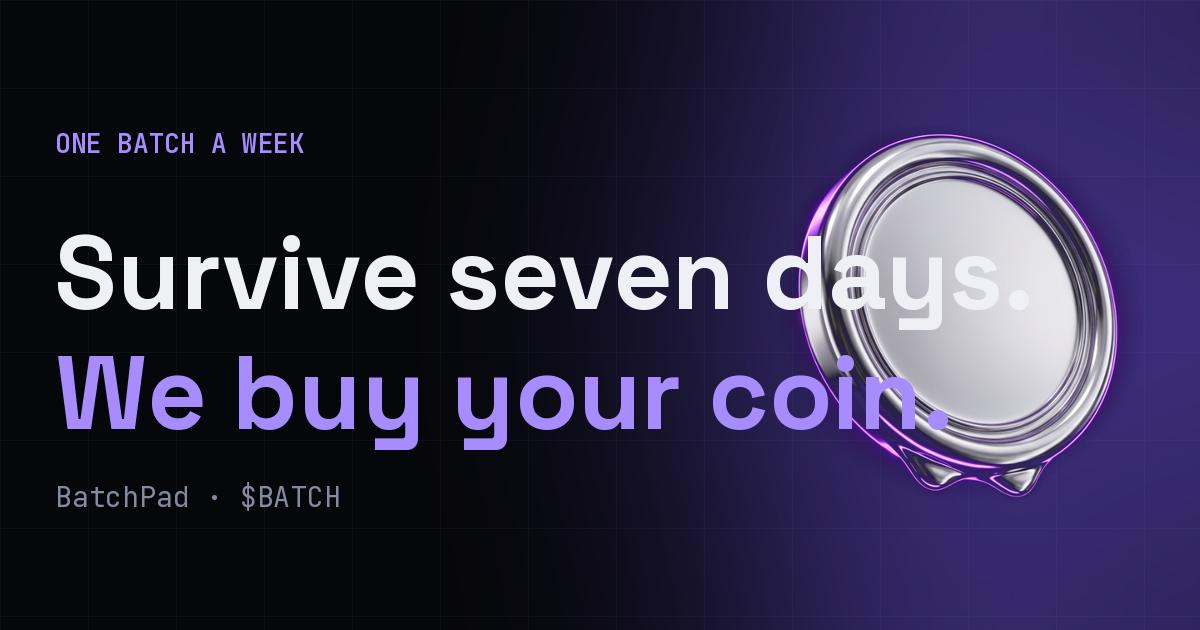
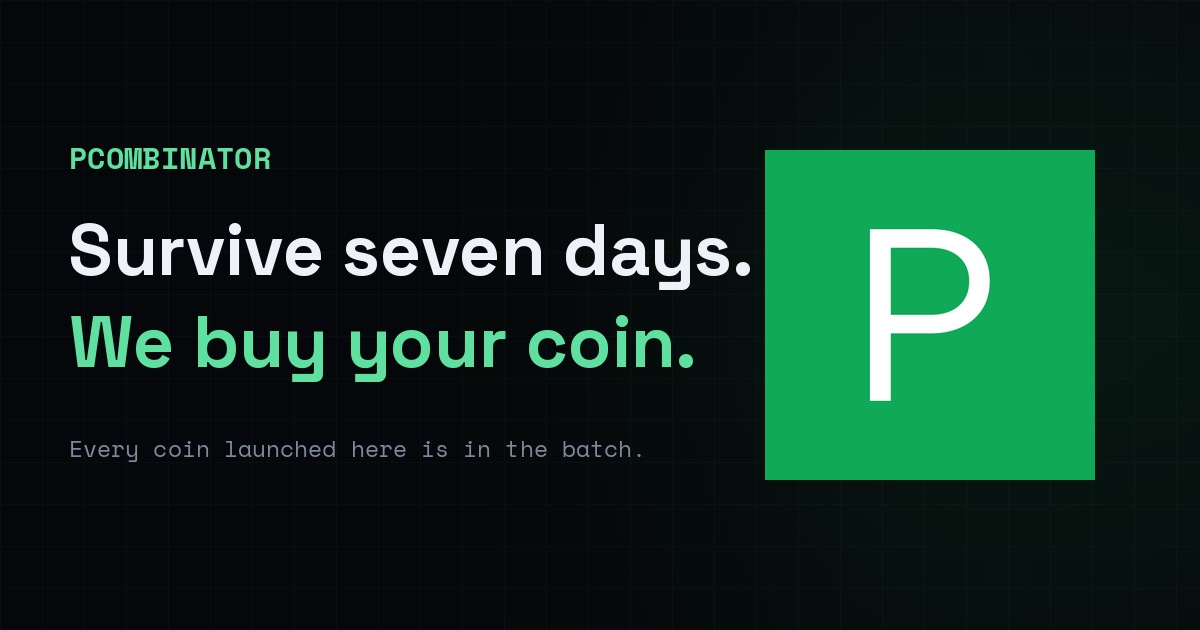
Add files via upload

diff --git a/index.html b/index.html
@@ -3,9 +3,9 @@
 <head>
 <meta charset="utf-8">
 <meta name="viewport" content="width=device-width,initial-scale=1,viewport-fit=cover">
-<title>BatchPad — survive the batch, get funded</title>
+<title>pcombinator — survive the batch, get funded</title>
 <meta name="description" content="Every coin launched here is in the batch. Hold the floor for seven days and the pad spends its whole fee pot buying you. Everything else gets cut.">
-<meta property="og:title" content="BatchPad — survive the batch, get funded">
+<meta property="og:title" content="pcombinator — survive the batch, get funded">
 <meta property="og:description" content="Seven days. Hold the floor or get cut.">
 <meta property="og:image" content="og.jpg">
 <meta name="twitter:card" content="summary_large_image">
@@ -17,13 +17,13 @@
 <style>
 :root{
   --bg:#06070a; --panel:#0c0e14; --panel2:#11141c; --line:#1d2130;
-  --vio:#7c5cff; --vio2:#a68cff; --vioDim:#2a2350;
+  --grn:#15b866; --grn2:#5fe0a0; --grnDim:#123a25;
   --ink:#eef0f6; --dim:#848ba0; --dim2:#575d70;
   --red:#ff5f5f; --amber:#f2b34a; --ok:#6ee7a0;
   --mono:'IBM Plex Mono',ui-monospace,monospace;
 }
 *{box-sizing:border-box}
-html{scroll-behavior:smooth;scroll-padding-top:76px;background:var(--bg)}
+html{scroll-behagrnr:smooth;scroll-padding-top:76px;background:var(--bg)}
 body{margin:0;background:var(--bg);color:var(--ink);
   font-family:'Space Grotesk',system-ui,sans-serif;-webkit-font-smoothing:antialiased;overflow-x:hidden}
 a{color:inherit}
@@ -31,7 +31,7 @@ img{max-width:100%;display:block}
 .wrap{width:min(1180px,calc(100% - 44px));margin:0 auto}
 
 #glow{position:fixed;inset:0;z-index:0;pointer-events:none;
-  background:radial-gradient(ellipse 70% 42% at 68% -6%,rgba(124,92,255,.20),transparent 70%)}
+  background:radial-gradient(ellipse 70% 42% at 68% -6%,rgba(21,184,102,.20),transparent 70%)}
 .shell{position:relative;z-index:1}
 
 /* ---------- nav ---------- */
@@ -44,14 +44,14 @@ img{max-width:100%;display:block}
 #nav .sp{flex:1}
 #nav a.l{font-size:13.5px;color:var(--dim);text-decoration:none}
 #nav a.l:hover{color:var(--ink)}
-.pill{display:inline-block;background:var(--vio);color:#fff;text-decoration:none;font-weight:600;
+.pill{display:inline-block;background:var(--grn);color:#fff;text-decoration:none;font-weight:600;
   font-size:13.5px;padding:9px 18px;border-radius:7px;white-space:nowrap}
 .pill.ghost{background:transparent;color:var(--ink);border:1px solid var(--line)}
 .pill:hover{filter:brightness(1.08)}
 
 /* ---------- type ---------- */
 .kick{font-family:var(--mono);font-size:11.5px;font-weight:600;letter-spacing:.22em;
-  text-transform:uppercase;color:var(--vio2)}
+  text-transform:uppercase;color:var(--grn2)}
 h1{font-size:clamp(36px,4.8vw,62px);line-height:1.02;letter-spacing:-.04em;font-weight:700;margin:16px 0 0}
 h2{font-size:clamp(27px,3.2vw,40px);line-height:1.07;letter-spacing:-.035em;font-weight:700;margin:14px 0 0}
 h3{font-size:16.5px;font-weight:600;margin:0 0 7px;letter-spacing:-.015em}
@@ -62,20 +62,28 @@ section{padding:92px 0;border-top:1px solid var(--line)}
 /* ---------- hero ---------- */
 #hero{padding:72px 0 84px;border-top:0}
 #hero .row{display:grid;grid-template-columns:1.2fr .8fr;gap:40px;align-items:center}
-#seal img{width:min(360px,100%);filter:drop-shadow(0 0 60px rgba(124,92,255,.35));
+#seal{position:relative;display:flex;justify-content:center}
+#seal:before{content:'';position:absolute;left:50%;top:50%;width:min(400px,78vw);height:min(400px,78vw);
+  transform:translate(-50%,-50%);border-radius:50%;pointer-events:none;
+  background:radial-gradient(circle,rgba(21,184,102,.30),transparent 68%);
+  animation:aura 6s ease-in-out infinite}
+#seal img{position:relative;width:min(300px,78%);
+  filter:drop-shadow(0 26px 60px rgba(0,0,0,.6));
   animation:breathe 6s ease-in-out infinite}
-@keyframes breathe{0%,100%{transform:scale(1) rotate(0)}50%{transform:scale(1.04) rotate(2deg)}}
+@keyframes breathe{0%,100%{transform:translateY(0)}50%{transform:translateY(-10px)}}
+@keyframes aura{0%,100%{opacity:.75;transform:translate(-50%,-50%) scale(1)}
+  50%{opacity:1;transform:translate(-50%,-50%) scale(1.07)}}
 .tagpill{display:inline-flex;align-items:center;gap:9px;font-family:var(--mono);font-size:11.5px;
-  border:1px solid var(--vioDim);border-radius:999px;padding:6px 14px;color:var(--vio2);
-  background:rgba(124,92,255,.07)}
-.dot{width:6px;height:6px;border-radius:50%;background:var(--vio);box-shadow:0 0 10px var(--vio)}
+  border:1px solid var(--grnDim);border-radius:999px;padding:6px 14px;color:var(--grn2);
+  background:rgba(21,184,102,.07)}
+.dot{width:6px;height:6px;border-radius:50%;background:var(--grn);box-shadow:0 0 10px var(--grn)}
 .hbtns{display:flex;gap:11px;margin-top:28px;flex-wrap:wrap}
 
 .stats{display:grid;grid-template-columns:repeat(4,1fr);gap:1px;background:var(--line);
   border:1px solid var(--line);border-radius:10px;overflow:hidden;margin-top:46px}
 .stats div{background:var(--bg);padding:20px}
 .stats b{display:block;font-family:var(--mono);font-size:24px;font-weight:500;letter-spacing:-.02em}
-.stats b.v{color:var(--vio2)}
+.stats b.v{color:var(--grn2)}
 .stats i{display:block;font-style:normal;font-family:var(--mono);font-size:10.5px;letter-spacing:.13em;
   text-transform:uppercase;color:var(--dim2);margin-top:7px}
 
@@ -98,18 +106,18 @@ section{padding:92px 0;border-top:1px solid var(--line)}
 .brow .num.bad{color:var(--red)}
 .days{display:flex;gap:4px}
 .days i{flex:1;height:9px;background:#161a24;border-radius:2px}
-.days i.on{background:var(--vio);box-shadow:0 0 8px rgba(124,92,255,.5)}
+.days i.on{background:var(--grn);box-shadow:0 0 8px rgba(21,184,102,.5)}
 .days i.dead{background:#3a1f28}
 .st{font-family:var(--mono);font-size:10.5px;letter-spacing:.09em;text-transform:uppercase;text-align:center;
   padding:6px 8px;border-radius:999px;border:1px solid var(--line);color:var(--dim);white-space:nowrap}
-.st.run{color:var(--vio2);border-color:var(--vioDim);background:rgba(124,92,255,.08)}
+.st.run{color:var(--grn2);border-color:var(--grnDim);background:rgba(21,184,102,.08)}
 .st.risk{color:var(--amber);border-color:#4a3a1a}
 .st.cut{color:var(--red);border-color:#4a2222}
-.st.acc{color:#06070a;background:var(--vio);border-color:var(--vio);font-weight:600}
+.st.acc{color:#06070a;background:var(--grn);border-color:var(--grn);font-weight:600}
 .brow.dying{background:rgba(255,95,95,.07)}
 .brow.gone{opacity:.42}
 .brow.hit{animation:hit .8s ease-out}
-@keyframes hit{0%{background:rgba(124,92,255,.22)}100%{background:transparent}}
+@keyframes hit{0%{background:rgba(21,184,102,.22)}100%{background:transparent}}
 
 #cutpile{margin-top:18px;border:1px dashed var(--line);border-radius:10px;padding:16px 20px;
   font-family:var(--mono);font-size:12.5px;color:var(--dim2);line-height:1.9}
@@ -118,12 +126,13 @@ section{padding:92px 0;border-top:1px solid var(--line)}
 #cutpile .none{color:var(--dim2)}
 
 /* accepted stamp */
-#stamp{position:fixed;left:50%;top:50%;z-index:90;width:300px;transform:translate(-50%,-50%) scale(2.1);
+#stamp{position:fixed;left:50%;top:50%;z-index:90;width:190px;transform:translate(-50%,-50%) scale(1);
   opacity:0;pointer-events:none}
+#stamp img{width:100%;box-shadow:0 30px 80px rgba(0,0,0,.7)}
 #stamp.on{animation:slam .95s cubic-bezier(.15,1.5,.4,1) forwards}
-#stamp .lbl{position:absolute;left:50%;top:50%;transform:translate(-50%,-50%) rotate(-9deg);
-  font-family:var(--mono);font-weight:600;font-size:22px;letter-spacing:.16em;color:#fff;
-  text-shadow:0 2px 20px rgba(0,0,0,.8);white-space:nowrap}
+#stamp .lbl{position:absolute;left:50%;top:calc(100% + 18px);transform:translate(-50%,0);
+  font-family:var(--mono);font-weight:600;font-size:20px;letter-spacing:.2em;color:#fff;
+  text-shadow:0 2px 20px rgba(0,0,0,.9);white-space:nowrap}
 @keyframes slam{0%{opacity:0;transform:translate(-50%,-50%) scale(2.1) rotate(-14deg)}
   22%{opacity:1;transform:translate(-50%,-50%) scale(1) rotate(-9deg)}
   76%{opacity:1;transform:translate(-50%,-50%) scale(1) rotate(-9deg)}
@@ -137,9 +146,9 @@ label{display:block;font-family:var(--mono);font-size:10.5px;letter-spacing:.13e
 .f{margin-bottom:20px}
 input{width:100%;background:var(--bg);border:1px solid var(--line);border-radius:7px;color:var(--ink);
   font-family:var(--mono);font-size:15px;padding:13px 14px;outline:0}
-input:focus{border-color:var(--vio)}
+input:focus{border-color:var(--grn)}
 .hint{font-family:var(--mono);font-size:11px;color:var(--dim2);margin-top:7px}
-.big{width:100%;background:var(--vio);color:#fff;border:0;border-radius:8px;
+.big{width:100%;background:var(--grn);color:#fff;border:0;border-radius:8px;
   font-family:'Space Grotesk',sans-serif;font-weight:600;font-size:15.5px;padding:15px;cursor:pointer}
 .big:disabled{background:var(--panel2);color:var(--dim2);cursor:not-allowed}
 .big.rel{background:transparent;color:var(--ink);border:1px solid var(--line)}
@@ -149,22 +158,22 @@ input:focus{border-color:var(--vio)}
 .tk-h{padding:16px 22px;border-bottom:1px solid var(--line);display:flex;justify-content:space-between;
   align-items:center;font-family:var(--mono);font-size:10.5px;letter-spacing:.14em;text-transform:uppercase;
   color:var(--dim2)}
-.tk-h b{color:var(--vio2);font-weight:500}
+.tk-h b{color:var(--grn2);font-weight:500}
 .tk-top{padding:22px;border-bottom:1px solid var(--line)}
 .tk-top .bn{font-size:30px;font-weight:700;letter-spacing:-.03em;line-height:1}
-.tk-top .sub{font-family:var(--mono);font-size:12.5px;color:var(--vio2);margin-top:8px}
+.tk-top .sub{font-family:var(--mono);font-size:12.5px;color:var(--grn2);margin-top:8px}
 .kv{display:flex;justify-content:space-between;gap:16px;padding:12px 22px;border-bottom:1px solid var(--line);
   font-size:14px}
 .kv span{color:var(--dim)}
 .kv b{font-family:var(--mono);font-weight:500;text-align:right}
-.kv b.v{color:var(--vio2)}
+.kv b.v{color:var(--grn2)}
 #log{font-family:var(--mono);font-size:11.5px;line-height:1.9;color:var(--dim);padding:16px 22px;
   border-top:1px solid var(--line);min-height:42px}
-#log .ok{color:var(--vio2)}
+#log .ok{color:var(--grn2)}
 
 /* ---------- bar / cheque ---------- */
 .bars{display:grid;grid-template-columns:repeat(4,1fr);gap:18px;margin-top:38px}
-.barc{background:var(--panel);border:1px solid var(--line);border-top:2px solid var(--vio);
+.barc{background:var(--panel);border:1px solid var(--line);border-top:2px solid var(--grn);
   border-radius:0 0 10px 10px;padding:22px}
 .barc .n{font-family:var(--mono);font-size:11px;letter-spacing:.14em;color:var(--dim2);margin-bottom:12px}
 .barc .big-n{font-family:var(--mono);font-size:26px;font-weight:500;letter-spacing:-.02em;margin-bottom:8px}
@@ -176,7 +185,7 @@ input:focus{border-color:var(--vio)}
 .cheque .lab{font-family:var(--mono);font-size:10.5px;letter-spacing:.14em;text-transform:uppercase;
   color:var(--dim2);margin-bottom:12px}
 .cheque .amt{font-family:var(--mono);font-size:clamp(30px,4vw,46px);font-weight:500;letter-spacing:-.03em}
-.cheque .amt.v{color:var(--vio2)}
+.cheque .amt.v{color:var(--grn2)}
 .cheque p{color:var(--dim);font-size:13.5px;margin:14px 0 0}
 
 table.rules{width:100%;border-collapse:collapse;margin-top:34px;border:1px solid var(--line);border-radius:10px;
@@ -186,14 +195,14 @@ table.rules tr:last-child td{border-bottom:0}
 table.rules td:first-child{width:38%;color:var(--dim);font-family:var(--mono);font-size:12.5px;
   letter-spacing:.06em;text-transform:uppercase;background:var(--panel)}
 
-/* ---------- $BATCH ---------- */
+/* ---------- $PCOMB ---------- */
 .splitbar{display:flex;height:44px;border:1px solid var(--line);border-radius:8px;overflow:hidden;margin-top:26px}
 .splitbar div{display:flex;align-items:center;justify-content:center;font-family:var(--mono);font-size:11.5px}
-.splitbar .a{background:var(--vio);color:#fff}
+.splitbar .a{background:var(--grn);color:#fff}
 .splitbar .b{background:var(--panel);color:var(--dim)}
 #ca{display:flex;align-items:center;gap:12px;background:var(--panel);border:1px solid var(--line);
   border-radius:8px;padding:14px 18px;margin-top:26px;flex-wrap:wrap}
-#ca code{font-family:var(--mono);font-size:13px;color:var(--vio2);word-break:break-all;flex:1;min-width:180px}
+#ca code{font-family:var(--mono);font-size:13px;color:var(--grn2);word-break:break-all;flex:1;min-width:180px}
 #ca button{background:transparent;border:1px solid var(--line);border-radius:6px;color:var(--ink);
   font-family:var(--mono);font-size:11.5px;letter-spacing:.1em;padding:9px 14px;cursor:pointer;
   text-transform:uppercase}
@@ -205,7 +214,7 @@ table.rules td:first-child{width:38%;color:var(--dim);font-family:var(--mono);fo
   font-family:'Space Grotesk',sans-serif;font-size:15.5px;font-weight:500;text-align:left;padding:18px 22px;
   cursor:pointer;display:flex;justify-content:space-between;align-items:center;gap:16px}
 .q:last-of-type{border-bottom:0}
-.q em{font-style:normal;font-family:var(--mono);font-size:16px;color:var(--vio2);flex:none}
+.q em{font-style:normal;font-family:var(--mono);font-size:16px;color:var(--grn2);flex:none}
 .a{display:none;padding:0 22px 20px;color:var(--dim);font-size:14.5px;line-height:1.7;background:var(--panel);
   border-bottom:1px solid var(--line)}
 .a.on{display:block}
@@ -215,7 +224,7 @@ footer .fr{display:flex;justify-content:space-between;gap:24px;flex-wrap:wrap;al
 footer a{color:var(--dim);text-decoration:none}
 
 #toast{position:fixed;left:50%;bottom:28px;transform:translateX(-50%) translateY(14px);z-index:95;
-  background:var(--vio);color:#fff;font-size:14px;font-weight:500;padding:12px 20px;border-radius:999px;
+  background:var(--grn);color:#fff;font-size:14px;font-weight:500;padding:12px 20px;border-radius:999px;
   opacity:0;transition:.22s;pointer-events:none;white-space:nowrap}
 #toast.on{opacity:1;transform:translateX(-50%) translateY(0)}
 
@@ -245,6 +254,11 @@ footer a{color:var(--dim);text-decoration:none}
   table.rules td{display:block;width:100%}
   table.rules td:first-child{width:100%;border-bottom:0}
   #clock{text-align:left}
+  #nav a.l{display:none}
+  .pill{font-size:12.5px;padding:8px 13px}
+  .brand{font-size:16px}
+  #stamp{width:150px}
+  #stamp .lbl{font-size:17px}
 }
 </style>
 </head>
@@ -253,30 +267,30 @@ footer a{color:var(--dim);text-decoration:none}
 <div class="shell">
 
 <nav id="nav"><div class="wrap">
-  <a class="brand" href="#top"><img src="mark.png" alt=""><span>BatchPad</span></a>
+  <a class="brand" href="#top"><img src="mark.png" alt=""><span>pcombinator</span></a>
   <span class="sp"></span>
   <a class="l" href="#batch">The batch</a>
   <a class="l" href="#launch">Launch</a>
   <a class="l" href="#bar">The bar</a>
   <a class="l" href="#cheque">The cheque</a>
   <a class="pill ghost x-link" href="#" target="_blank" rel="noopener">X</a>
-  <a class="pill buy-link" href="#" target="_blank" rel="noopener">Buy $<span class="tk">BATCH</span></a>
+  <a class="pill buy-link" href="#" target="_blank" rel="noopener">Buy $<span class="tk">PCOMB</span></a>
 </div></nav>
 
 <header id="hero" class="wrap"><div class="row">
   <div>
     <span class="tagpill"><i class="dot"></i> <span id="pill-txt">Batch #14 · closes in —</span></span>
     <h1>Survive seven days.<br>We buy your coin.</h1>
-    <p class="lead">Every coin launched on BatchPad is in the current batch from the second it goes live.
+    <p class="lead">Every coin launched on pcombinator is in the current batch from the second it goes live.
       No application, no pitch, no interview. Hold the floor for the whole week and you're
-      <b style="color:var(--vio2);font-weight:500">accepted</b> — the pad spends its entire fee pot buying you
+      <b style="color:var(--grn2);font-weight:500">accepted</b> — the pad spends its entire fee pot buying you
       on the open market and locks it for <span class="lock-n">90</span> days. Miss any of it and you're cut.</p>
     <div class="hbtns">
       <a class="pill" href="#launch">Enter the batch</a>
       <a class="pill ghost" href="#bar">See the bar</a>
     </div>
   </div>
-  <div id="seal"><img src="mark.png" alt="BatchPad"></div>
+  <div id="seal"><img src="mark.png" alt="pcombinator"></div>
 </div>
 
 <div class="stats">
@@ -370,7 +384,7 @@ footer a{color:var(--dim);text-decoration:none}
 <section id="cheque"><div class="wrap">
   <span class="kick">04 — The cheque</span>
   <h2>Everything the pad earned goes back in.</h2>
-  <p class="lead">BatchPad keeps the creator fees from every coin launched this week. On Sunday at 00:00 UTC
+  <p class="lead">pcombinator keeps the creator fees from every coin launched this week. On Sunday at 00:00 UTC
     the batch closes, the survivors are counted, and <span class="split-n">80%</span> of the pot is spent buying
     them on the open market. The buys lock for <span class="lock-n">90</span> days, same as everyone else's.</p>
 
@@ -404,20 +418,20 @@ footer a{color:var(--dim);text-decoration:none}
 </div></section>
 
 <section id="cow"><div class="wrap">
-  <span class="kick">06 — $<span class="tk">BATCH</span></span>
+  <span class="kick">06 — $<span class="tk">PCOMB</span></span>
   <h2>The pad's own coin.</h2>
-  <p class="lead">$<span class="tk">BATCH</span> never enters a batch and never gets a cheque. It takes the
+  <p class="lead">$<span class="tk">PCOMB</span> never enters a batch and never gets a cheque. It takes the
     other <span class="rest-n">20%</span> — the share that does not go into the survivors — and that buys
-    $<span class="tk">BATCH</span> back.</p>
+    $<span class="tk">PCOMB</span> back.</p>
 
   <div class="splitbar">
     <div class="a" id="bar-a">80% — into the accepted coins</div>
-    <div class="b" id="bar-b">20% — buys $BATCH</div>
+    <div class="b" id="bar-b">20% — buys $PCOMB</div>
   </div>
 
   <div id="ca"><code id="ca-t">CA — dropping at launch</code><button id="cp">Copy</button></div>
   <div class="cbtns">
-    <a class="pill buy-link" href="#" target="_blank" rel="noopener">Buy $<span class="tk">BATCH</span></a>
+    <a class="pill buy-link" href="#" target="_blank" rel="noopener">Buy $<span class="tk">PCOMB</span></a>
     <a class="pill ghost chart-link" href="#" target="_blank" rel="noopener">Chart</a>
     <a class="pill ghost x-link" href="#" target="_blank" rel="noopener">X</a>
   </div>
@@ -445,13 +459,13 @@ footer a{color:var(--dim);text-decoration:none}
     <button class="q"><span>Can a cut coin try again next batch?</span><em>+</em></button>
     <div class="a">No. One batch per coin, ever. You get the seven days you get.</div>
 
-    <button class="q"><span>Does holding $<span class="tk">BATCH</span> get me in?</span><em>+</em></button>
+    <button class="q"><span>Does holding $<span class="tk">PCOMB</span> get me in?</span><em>+</em></button>
     <div class="a">Not one inch. It cannot buy a place, an extension or a soft check.</div>
   </div>
 </div></section>
 
 <footer><div class="wrap fr">
-  <div><div style="color:var(--ink);font-weight:600;margin-bottom:8px">BatchPad</div>
+  <div><div style="color:var(--ink);font-weight:600;margin-bottom:8px">pcombinator</div>
     Survive the batch. Get funded.</div>
   <div><a class="x-link" href="#" target="_blank" rel="noopener">X</a></div>
 </div></footer>
@@ -463,8 +477,8 @@ footer a{color:var(--dim);text-decoration:none}
 <script src="config.js"></script>
 <script>
 (function(){
-var C = window.BATCH_CFG || {};
-var TK = C.TICKER || 'BATCH', CA = (C.CA||'').trim();
+var C = window.PC_CFG || {};
+var TK = C.TICKER || 'PCOMB', CA = (C.CA||'').trim();
 var BN = +C.BATCH_NO || 14, DAYS = +C.DAYS || 7;
 var FLOOR = +C.FLOOR || 50000, MINVOL = +C.MIN_VOL || 25000, MINHOLD = +C.MIN_HOLD || 150;
 var LOCK = +C.LOCK || 90, POT = +C.POT || 38400, SPLIT = +C.SPLIT || 80;

diff --git a/config.js b/config.js
@@ -1,7 +1,7 @@
 // fill at launch — everything on the page reads from here
-window.BATCH_CFG = {
-  NAME:   "BatchPad",
-  TICKER: "BATCH",
+window.PC_CFG = {
+  NAME:   "pcombinator",
+  TICKER: "PCOMB",
   CA:     "",
   CHAIN:  "solana",
   PAD:    "pumpfun",        // pumpfun | stonkfun
